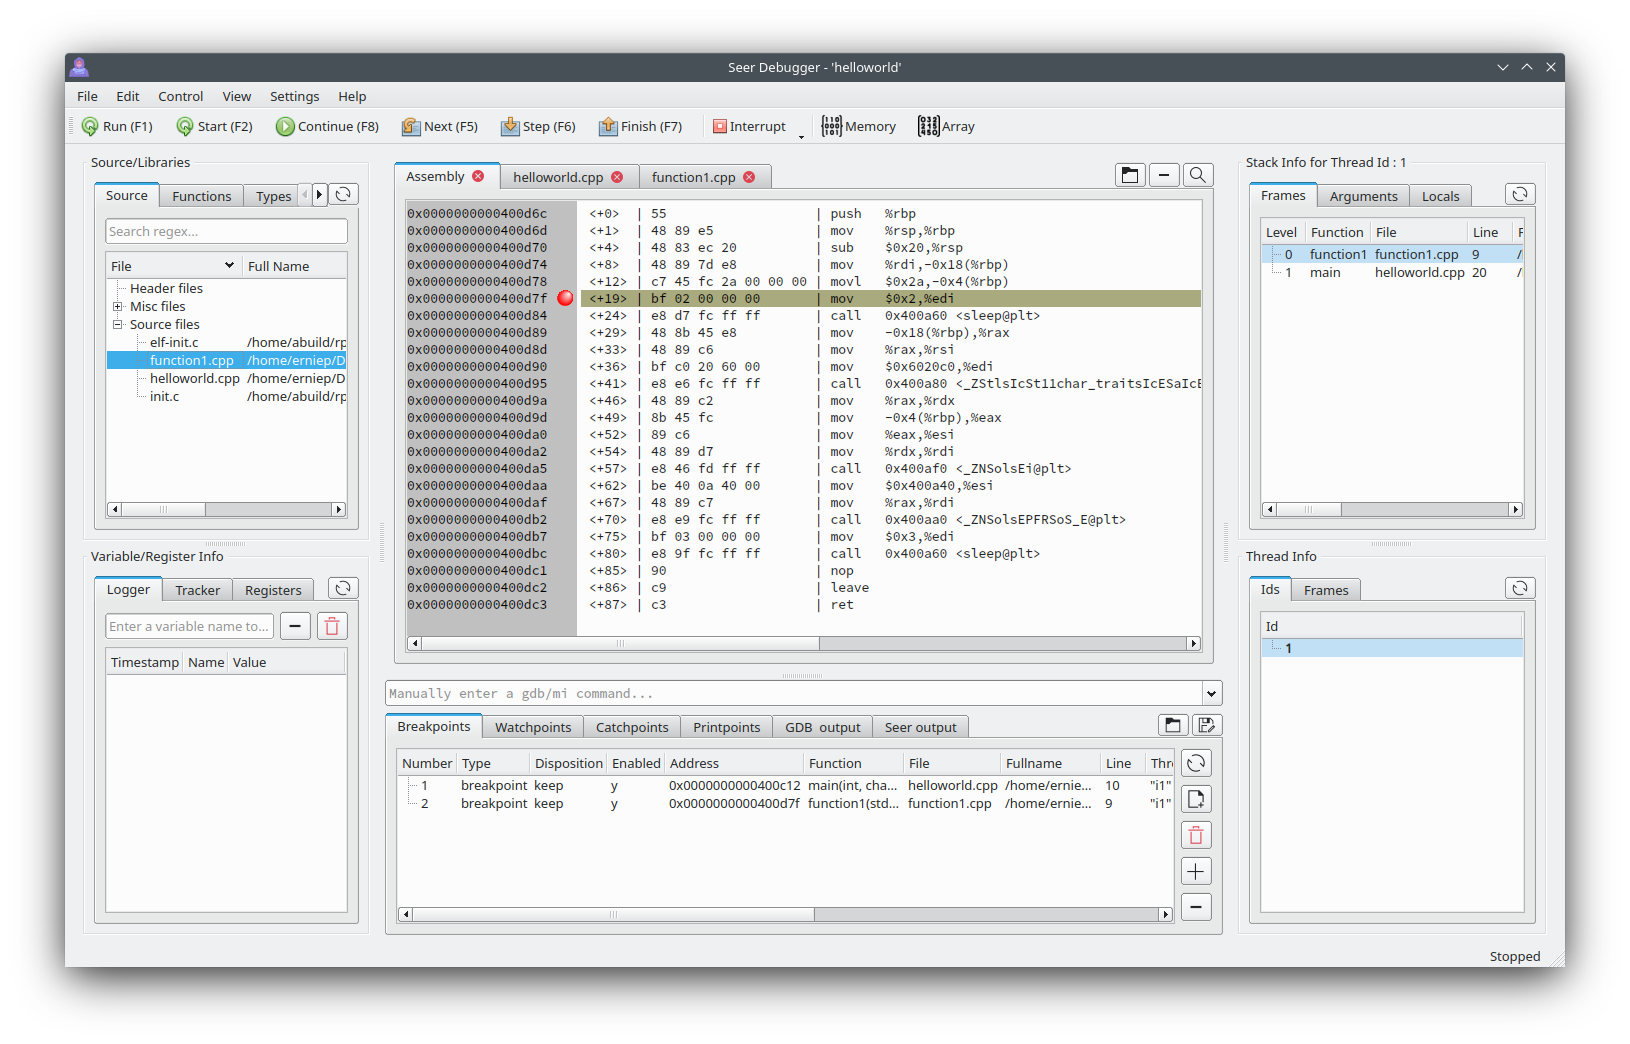
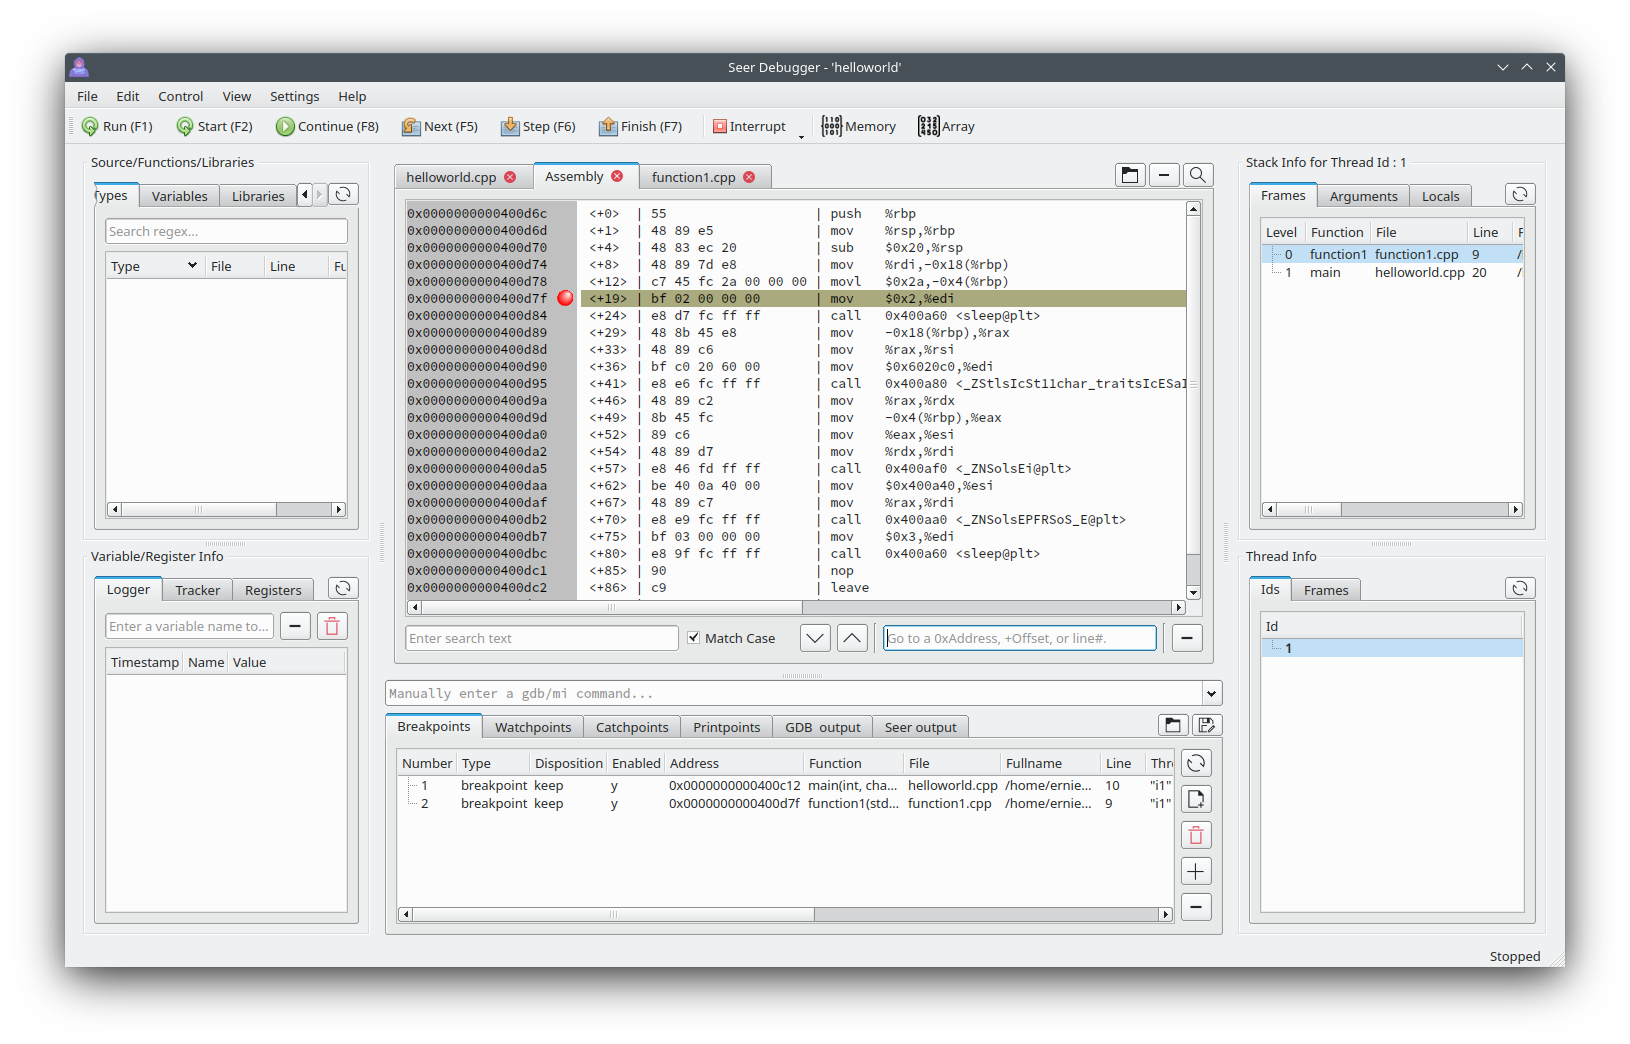
Update README with assembly mode.

diff --git a/README.md b/README.md
@@ -102,6 +102,25 @@ Seer Console
 All text output from the executable will go to the Seer console.  Text input for the executable can be entered via the console too.
 ![](images/console.png)
 
+
+Assembly View
+-------------
+
+Normally Seer will just show the source code as tabs in the Code Manager.  The program's assembly can also be show as a tab.
+
+Select "View->Assembly View" and an extra tab will be shown along side the source code tabs that shows the current assembly being executed. Here is an example.
+![](images/mainview_assemby.png )
+
+Like the source code tabs, breakpoints can be set in the assemby tab. The current instruction is highlighted.
+
+Double-clicking on entries in the "Breakpoints" tab and the "Stack frames" tab will show the assembly for those addresses.
+
+There are "Nexti" and "Stepi" hot-keys, as defined by your config settings. Normally "Ctrl+F5" and "CTRL+F6".
+Using "^F" in the assembly tab will show a powerful search bar.
+
+**The assembly feature in Seer is new. Feel free to suggest changes/features.**
+
+
 Memory Visualizer
 -----------------
 
